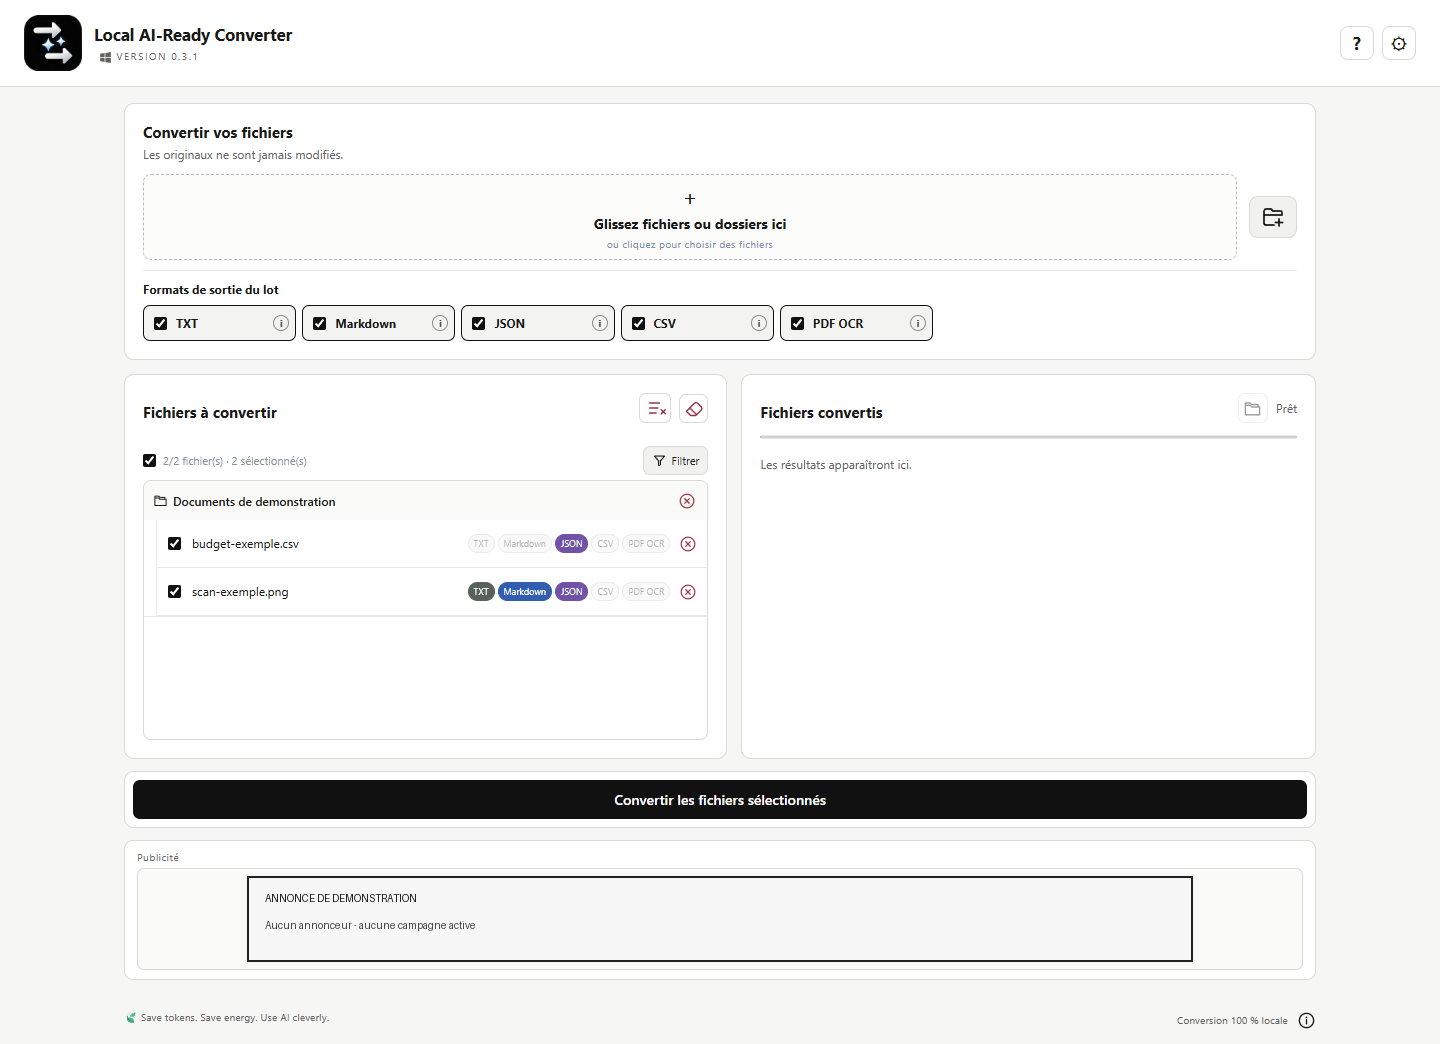
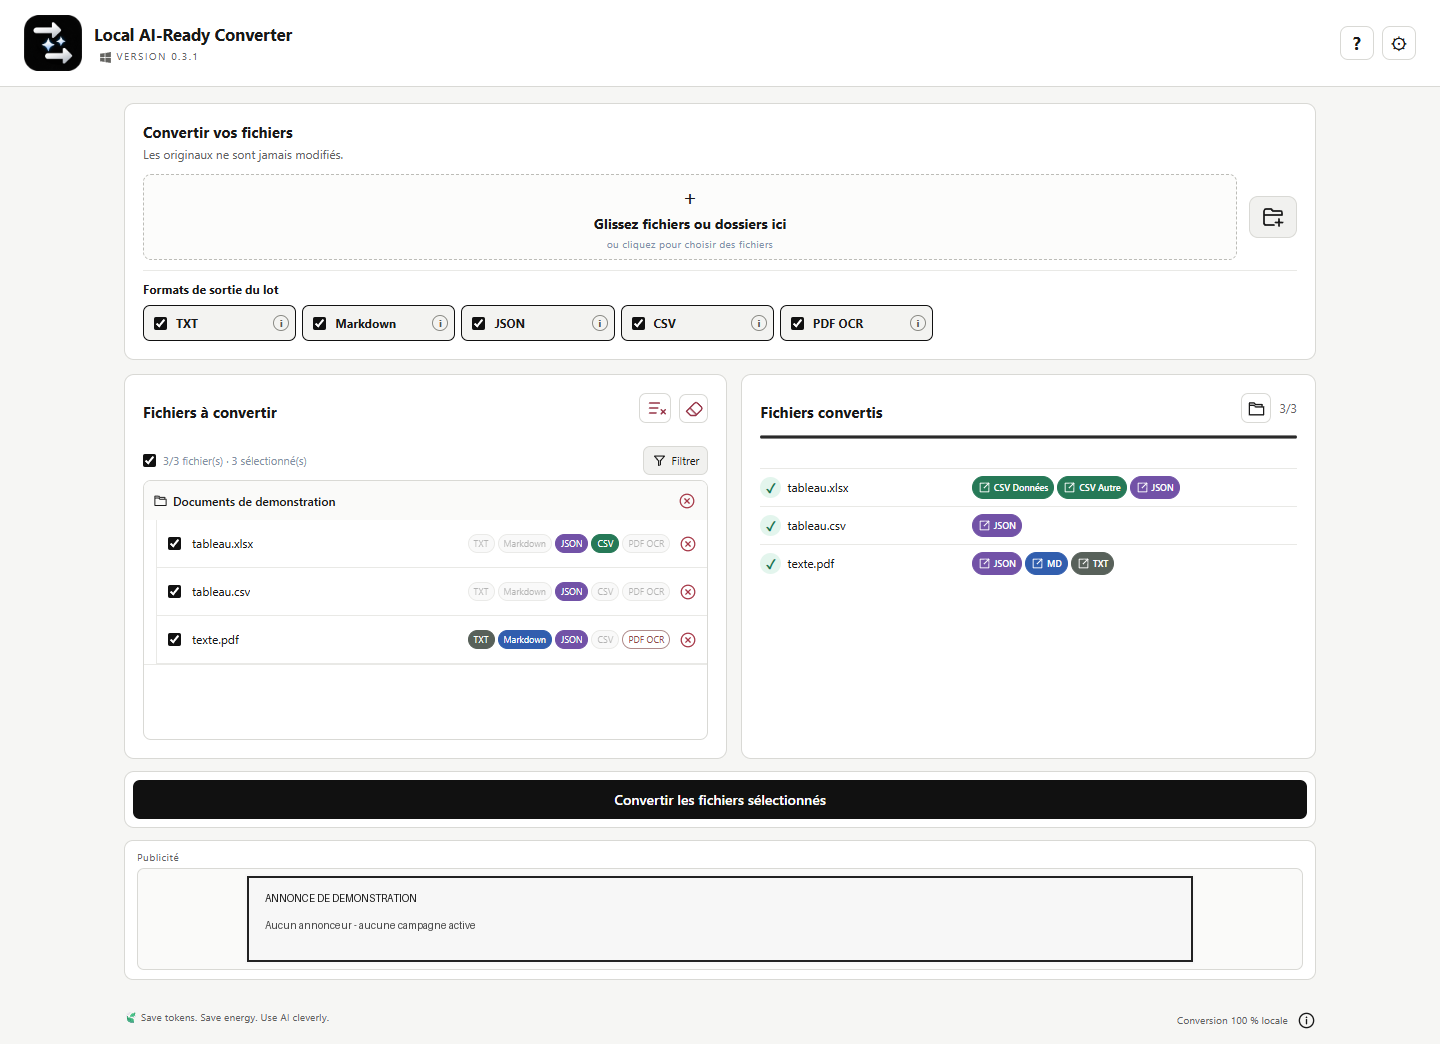
Show actual demo conversions and Stripe support in release docs

diff --git a/README.md b/README.md
@@ -6,9 +6,9 @@ Une facture en PDF, un classeur Excel, un document Word ou un scan ne se prête 
 
 > Préparation de la distribution : ce dépôt est actuellement privé. Aucun téléchargement public n'est encore annoncé.
 
-![Aperçu de l'application avec deux fichiers de démonstration](docs/assets/interface-demo.png)
+![Aperçu de l'application après conversion de trois fichiers de démonstration](docs/assets/interface-demo.png)
 
-*Aperçu de l'interface 0.3.1. Les fichiers montrés ont été créés pour cette capture ; aucune donnée d'utilisateur n'a été utilisée.*
+*Aperçu de l'interface 0.3.1 rendu dans le navigateur de test, avec l'état d'une conversion réelle d'un XLSX, d'un CSV et d'un PDF créés pour ce test. [Rapport des sorties et empreintes](docs/assets/conversion-demo.json). Aucune donnée d'utilisateur n'a été utilisée.*
 
 ## Télécharger et installer
 
@@ -55,7 +55,7 @@ Un TXT léger peut servir à retrouver une information ; un JSON de PDF conserve
 - [Feuille de route publique](docs/ROADMAP.md)
 - [Licence du produit](LICENSE.md) et [composants tiers](docs/COMPOSANTS_TIERS.md)
 
-Si le projet vous est utile, vous pourrez aussi lui donner une étoile sur GitHub. Les liens de soutien financier n'apparaîtront que lorsqu'ils seront réellement configurés ; aucun paiement n'est intégré à l'application.
+Si le projet vous est utile, vous pourrez lui donner une étoile gratuite sur GitHub ou [le soutenir via Stripe](https://buy.stripe.com/8x214pgIZ7ho3vUftg1oI00). Le paiement se fait sur le site du prestataire, pas dans l'application.
 L'[espace de soutien et d'annonces](docs/SOUTIEN.md) est facultatif et peut être masqué.
 
 Local AI-Ready Converter est édité par **ergoCogn sàrl**. Ce dépôt est réservé à la distribution, aux notes de version et à l'aide ; le code source propriétaire de l'application n'y est pas publié.

diff --git a/docs/SOUTIEN.md b/docs/SOUTIEN.md
@@ -1,6 +1,6 @@
 # Soutien et annonces dans l'application
 
-Local AI-Ready Converter peut montrer un espace « Soutenir le projet » sur l'écran principal. L'étoile GitHub est un geste **gratuit**, distinct d'une contribution financière. Si ergoCogn active des liens de soutien, les boutons correspondants ouvrent la page du prestataire dans votre navigateur ; l'application ne traite pas elle-même les paiements. Aucun montant n'est présumé par l'application : seul un bouton explicitement libellé avec un montant et relié à une page correspondante devrait le suggérer.
+Local AI-Ready Converter peut montrer un espace « Soutenir le projet » sur l'écran principal. L'étoile GitHub est un geste **gratuit**, distinct d'une contribution financière. Le bouton [Soutenir via Stripe](https://buy.stripe.com/8x214pgIZ7ho3vUftg1oI00) ouvre la page du prestataire dans votre navigateur ; l'application ne traite pas elle-même les paiements. Aucun montant n'est présumé par l'application : seul un bouton explicitement libellé avec un montant et relié à une page correspondante devrait le suggérer.
 
 Si une véritable annonce est configurée, elle remplace cette carte dans le même emplacement et porte la mention « Publicité ». L'annonce est une image incluse dans la version installée, associée à un lien HTTPS. L'application ne charge pas une régie publicitaire, un script ou une image depuis un serveur à chaque affichage. Un clic ouvre le lien dans le navigateur. Changer l'image ou sa destination nécessite une nouvelle version de l'application.
 
